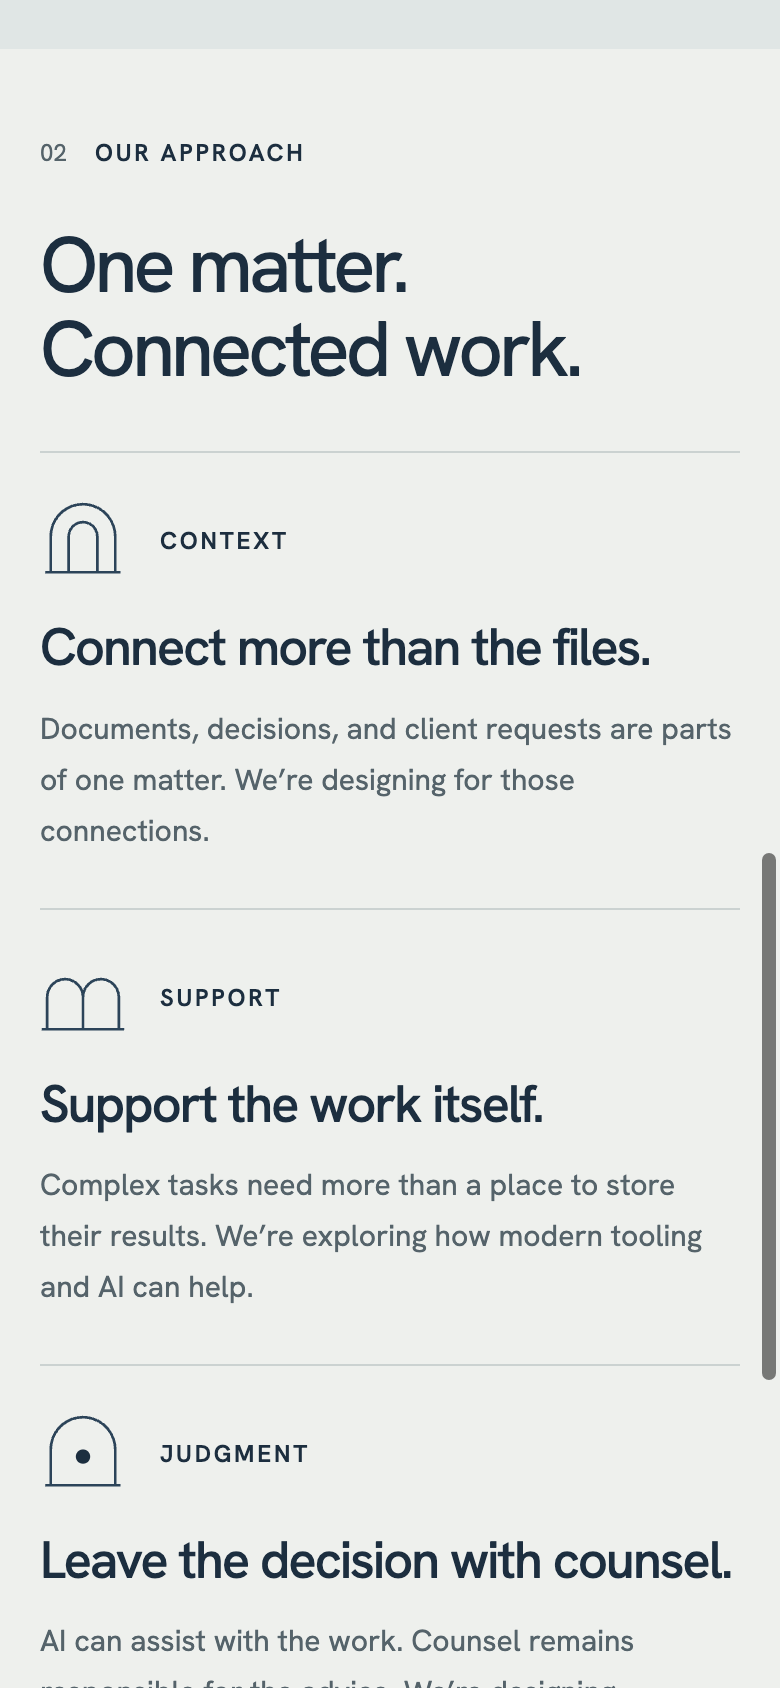
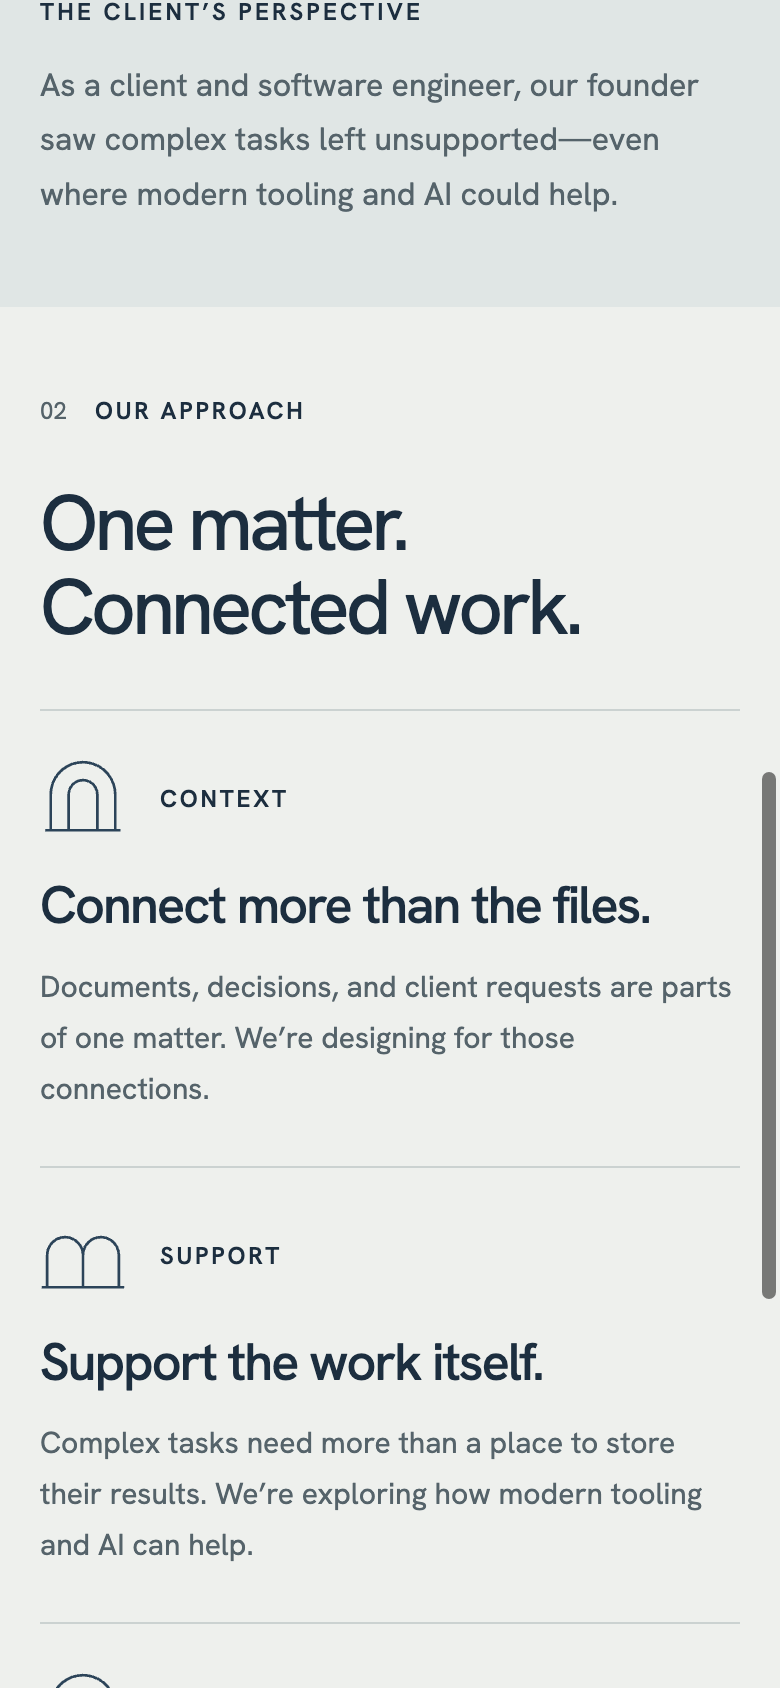
Refine conceptual Arca artwork and compact mobile composition

diff --git a/styles.css b/styles.css
@@ -176,25 +176,6 @@ h1 {
   border-radius: 50%;
   background: currentColor;
 }
-.arch {
-  width: 100%;
-  height: auto;
-  margin: 8px 0 0;
-}
-.arch-fill {
-  fill: var(--lime);
-}
-.arch-lines {
-  fill: none;
-  stroke: var(--ink);
-  stroke-width: 1.8;
-}
-.cross,
-.ground {
-  fill: none;
-  stroke: #91a3a9;
-  stroke-width: 1;
-}
 .hero-art figcaption {
   align-items: end;
   padding-top: 4px;
@@ -451,10 +432,6 @@ h3 {
   .status {
     font-size: 12px;
   }
-  .arch {
-    height: 240px;
-    margin-top: 10px;
-  }
   .art-name {
     font-size: 53px;
   }
@@ -642,14 +619,6 @@ h3 {
   .hero-art {
     height: 264px;
   }
-  .hero-art .arch {
-    position: absolute;
-    right: 0;
-    top: 48px;
-    width: 67%;
-    height: 196px;
-    margin: 0;
-  }
   .hero-art figcaption {
     position: absolute;
     bottom: 28px;
@@ -730,10 +699,6 @@ h3 {
     height: 248px;
     padding: 18px;
   }
-  .hero-art .arch {
-    top: 48px;
-    height: 180px;
-  }
   .hero-art figcaption {
     left: 18px;
   }
@@ -794,11 +759,6 @@ h3 {
   .hero-art {
     height: 282px;
   }
-  .hero-art .arch {
-    height: 220px;
-    top: 45px;
-    width: 70%;
-  }
   .closing-grid {
     grid-template-columns: 1fr;
     gap: 25px;
@@ -807,9 +767,6 @@ h3 {
 @media (max-width: 360px) {
   .hero-art {
     height: 265px;
-  }
-  .hero-art .arch {
-    height: 202px;
   }
 }
 .approach-heading h2 {
@@ -959,4 +916,59 @@ h3 {
   font-weight: 600;
   line-height: 1.5;
   letter-spacing: 1.6px;
+}
+
+.tactile-art {
+  min-height: 540px;
+  overflow: hidden;
+  display: flex;
+  flex-direction: column;
+  justify-content: space-between;
+}
+.paper-art {
+  position: absolute;
+  width: 100%;
+  height: 100%;
+  inset: 0;
+  object-fit: cover;
+}
+.tactile-art .art-top,
+.tactile-art figcaption {
+  position: relative;
+  z-index: 1;
+}
+@media (max-width: 760px) {
+  .tactile-art {
+    height: 284px;
+    min-height: 0;
+  }
+  .tactile-art .paper-art {
+    width: 82%;
+    height: 100%;
+    left: auto;
+    right: -24px;
+    object-fit: contain;
+    object-position: center;
+    mask-image: linear-gradient(to right, transparent, black 17%);
+  }
+  .tactile-art figcaption {
+    position: absolute;
+    inset: auto;
+    left: 24px;
+    bottom: 28px;
+    display: block;
+    align-items: end;
+  }
+  .tactile-art figcaption > span:last-child {
+    margin-top: 16px;
+    text-align: left;
+  }
+}
+@media (max-width: 360px) {
+  .tactile-art {
+    height: 264px;
+  }
+  .tactile-art figcaption {
+    left: 18px;
+  }
 }

diff --git a/index.html b/index.html
@@ -59,38 +59,20 @@
             >Discover Arca <span aria-hidden="true">↓</span></a
           >
         </div>
-        <figure class="hero-art">
+        <figure class="hero-art tactile-art">
           <div class="art-top">
             <span>ARCA / BY STATERA LABS</span
             ><span class="status"
               ><i aria-hidden="true"></i> In development</span
             >
           </div>
-          <svg
-            class="arch"
-            viewBox="0 0 500 460"
-            role="img"
-            aria-labelledby="arch-title"
-          >
-            <title id="arch-title">
-              An open arch, drawn from parallel lines coming together. A study
-              in common ground.
-            </title>
-            <path
-              class="arch-fill"
-              d="M85 410V202a165 165 0 0 1 330 0v208H305V202a55 55 0 0 0-110 0v208Z"
-            />
-            <g class="arch-lines">
-              <path d="M101 410V202a149 149 0 0 1 298 0v208" />
-              <path d="M117 410V202a133 133 0 0 1 266 0v208" />
-              <path d="M133 410V202a117 117 0 0 1 234 0v208" />
-              <path d="M149 410V202a101 101 0 0 1 202 0v208" />
-              <path d="M165 410V202a85 85 0 0 1 170 0v208" />
-              <path d="M181 410V202a69 69 0 0 1 138 0v208" />
-            </g>
-            <path class="ground" d="M35 410h430" />
-            <path class="cross" d="M35 404v12m430-12v12" />
-          </svg>
+          <img
+            class="paper-art"
+            src="assets/arca-arch.webp"
+            width="1254"
+            height="1254"
+            alt="Conceptual artwork of five layered arches forming a single passage."
+          />
           <figcaption>
             <span class="art-name">Arca</span
             ><span>A clearer way<br />forward.</span>

diff --git a/docs/ui-polish/README.md b/docs/ui-polish/README.md
@@ -14,7 +14,7 @@ can be reviewed at a readable scale.
 - Browser overflow checks at 320, 390, 768, 1280, and 1920 CSS pixels: no horizontal overflow.
 - Actual link activation: Discover Arca → `#arca`; Approach → `#approach`; Back to top → `#top`.
 - Keyboard: initial Tab reveals the skip link with a visible outline; Enter navigates to `#main`; next Tab reaches the main CTA, bypassing header navigation.
-- axe-core 4.14.0, WCAG A/AA/2.1 AA and best-practice rules: zero violations, 35 passing rules. Two symbol-only arrow contrast checks required manual review; their foreground/background ratio is 12.18:1.
+- axe-core 4.14.0, WCAG A/AA/2.1 AA and best-practice rules: zero violations, 32 passing rules. Symbol-only arrows and the status over the image required manual contrast review; arrow contrast is 12.18:1 and secondary text over the image’s top region exceeds 9.58:1.
 - Text color pairings: 4.96:1 minimum among the primary and muted text combinations. This is targeted contrast verification, not a claim of complete accessibility certification.
 - All local assets and fragment destinations exist; IDs are unique.
 - Formatting and `git diff --check` pass.
@@ -33,15 +33,15 @@ their final rubrics while retaining independent ratings.
 | Reviewer | Final score | Assessment                                                                            |
 | -------- | ----------- | ------------------------------------------------------------------------------------- |
 | UX       | 9.0 / 10    | Excellent clarity, reading hierarchy, and prelaunch framing.                          |
-| Visual   | 8.9 / 10    | Strong composition and identity; originality is strong rather than category-defining. |
-| Brand    | 8.6 / 10    | Polished and recognizable; more weight reserved for exceptional, ownable expression.  |
+| Visual   | 9.0 / 10    | Strong composition and identity; originality is strong rather than category-defining. |
+| Brand    | 8.8 / 10    | Polished and recognizable; more weight reserved for exceptional, ownable expression.  |
 
-The latest retained refinement separates the attorney and client/software-engineer
-perspectives into a compact paired origin section and strengthens the mobile
-headline. A paired-arch company-mark experiment was rejected; the solid mark
-remains. Retired experiment styles were removed without changing computed styles
-at the five checked viewport widths.
+The latest retained refinement uses custom generated conceptual artwork of layered
+arches. The image is a locally served 44 KB WebP, not a product screen. A compact
+mobile composition preserves reading pace. The founder origin retains separate
+attorney and client/software-engineer perspectives. All seven refreshed screenshots
+were independently reviewed by the original council.
 
-All three recommend shipping and report no material visible issue. Their
-remaining differences concern subjective weighting of distinctiveness, not an
-unresolved defect. These are agent assessments, not external user research.
+All three recommend retaining the revision and report no material visible issue.
+The brand reviewer still reserves a higher score for greater distinctiveness.
+The full goal remains open. These are agent assessments, not external user research.

diff --git a/README.md b/README.md
@@ -8,9 +8,10 @@ external requests. Open `index.html` directly to preview; keep `styles.css` and
 ## Direction and copy
 
 Ink blue, mineral gray and pale chartreuse; self-hosted Hanken Grotesk typography
-(font license in `assets/`). The custom arch illustration and related principle
+(font license in `assets/`). The custom tactile arch illustration and related principle
 symbols express a common ground for counsel and clients. They are conceptual
-artwork, not a product screenshot or final logo. The page has three numbered
+artwork, not a product screenshot or final logo. The generated illustration is
+served locally as a 44 KB WebP; no image service is contacted at runtime. The page has three numbered
 sections: the founding perspectives, our approach, and development status.
 
 Company: **Statera Labs**. Product: **Arca**. Lead line: **The work goes beyond the files.** Positioning: legal case management for small practices, designed
